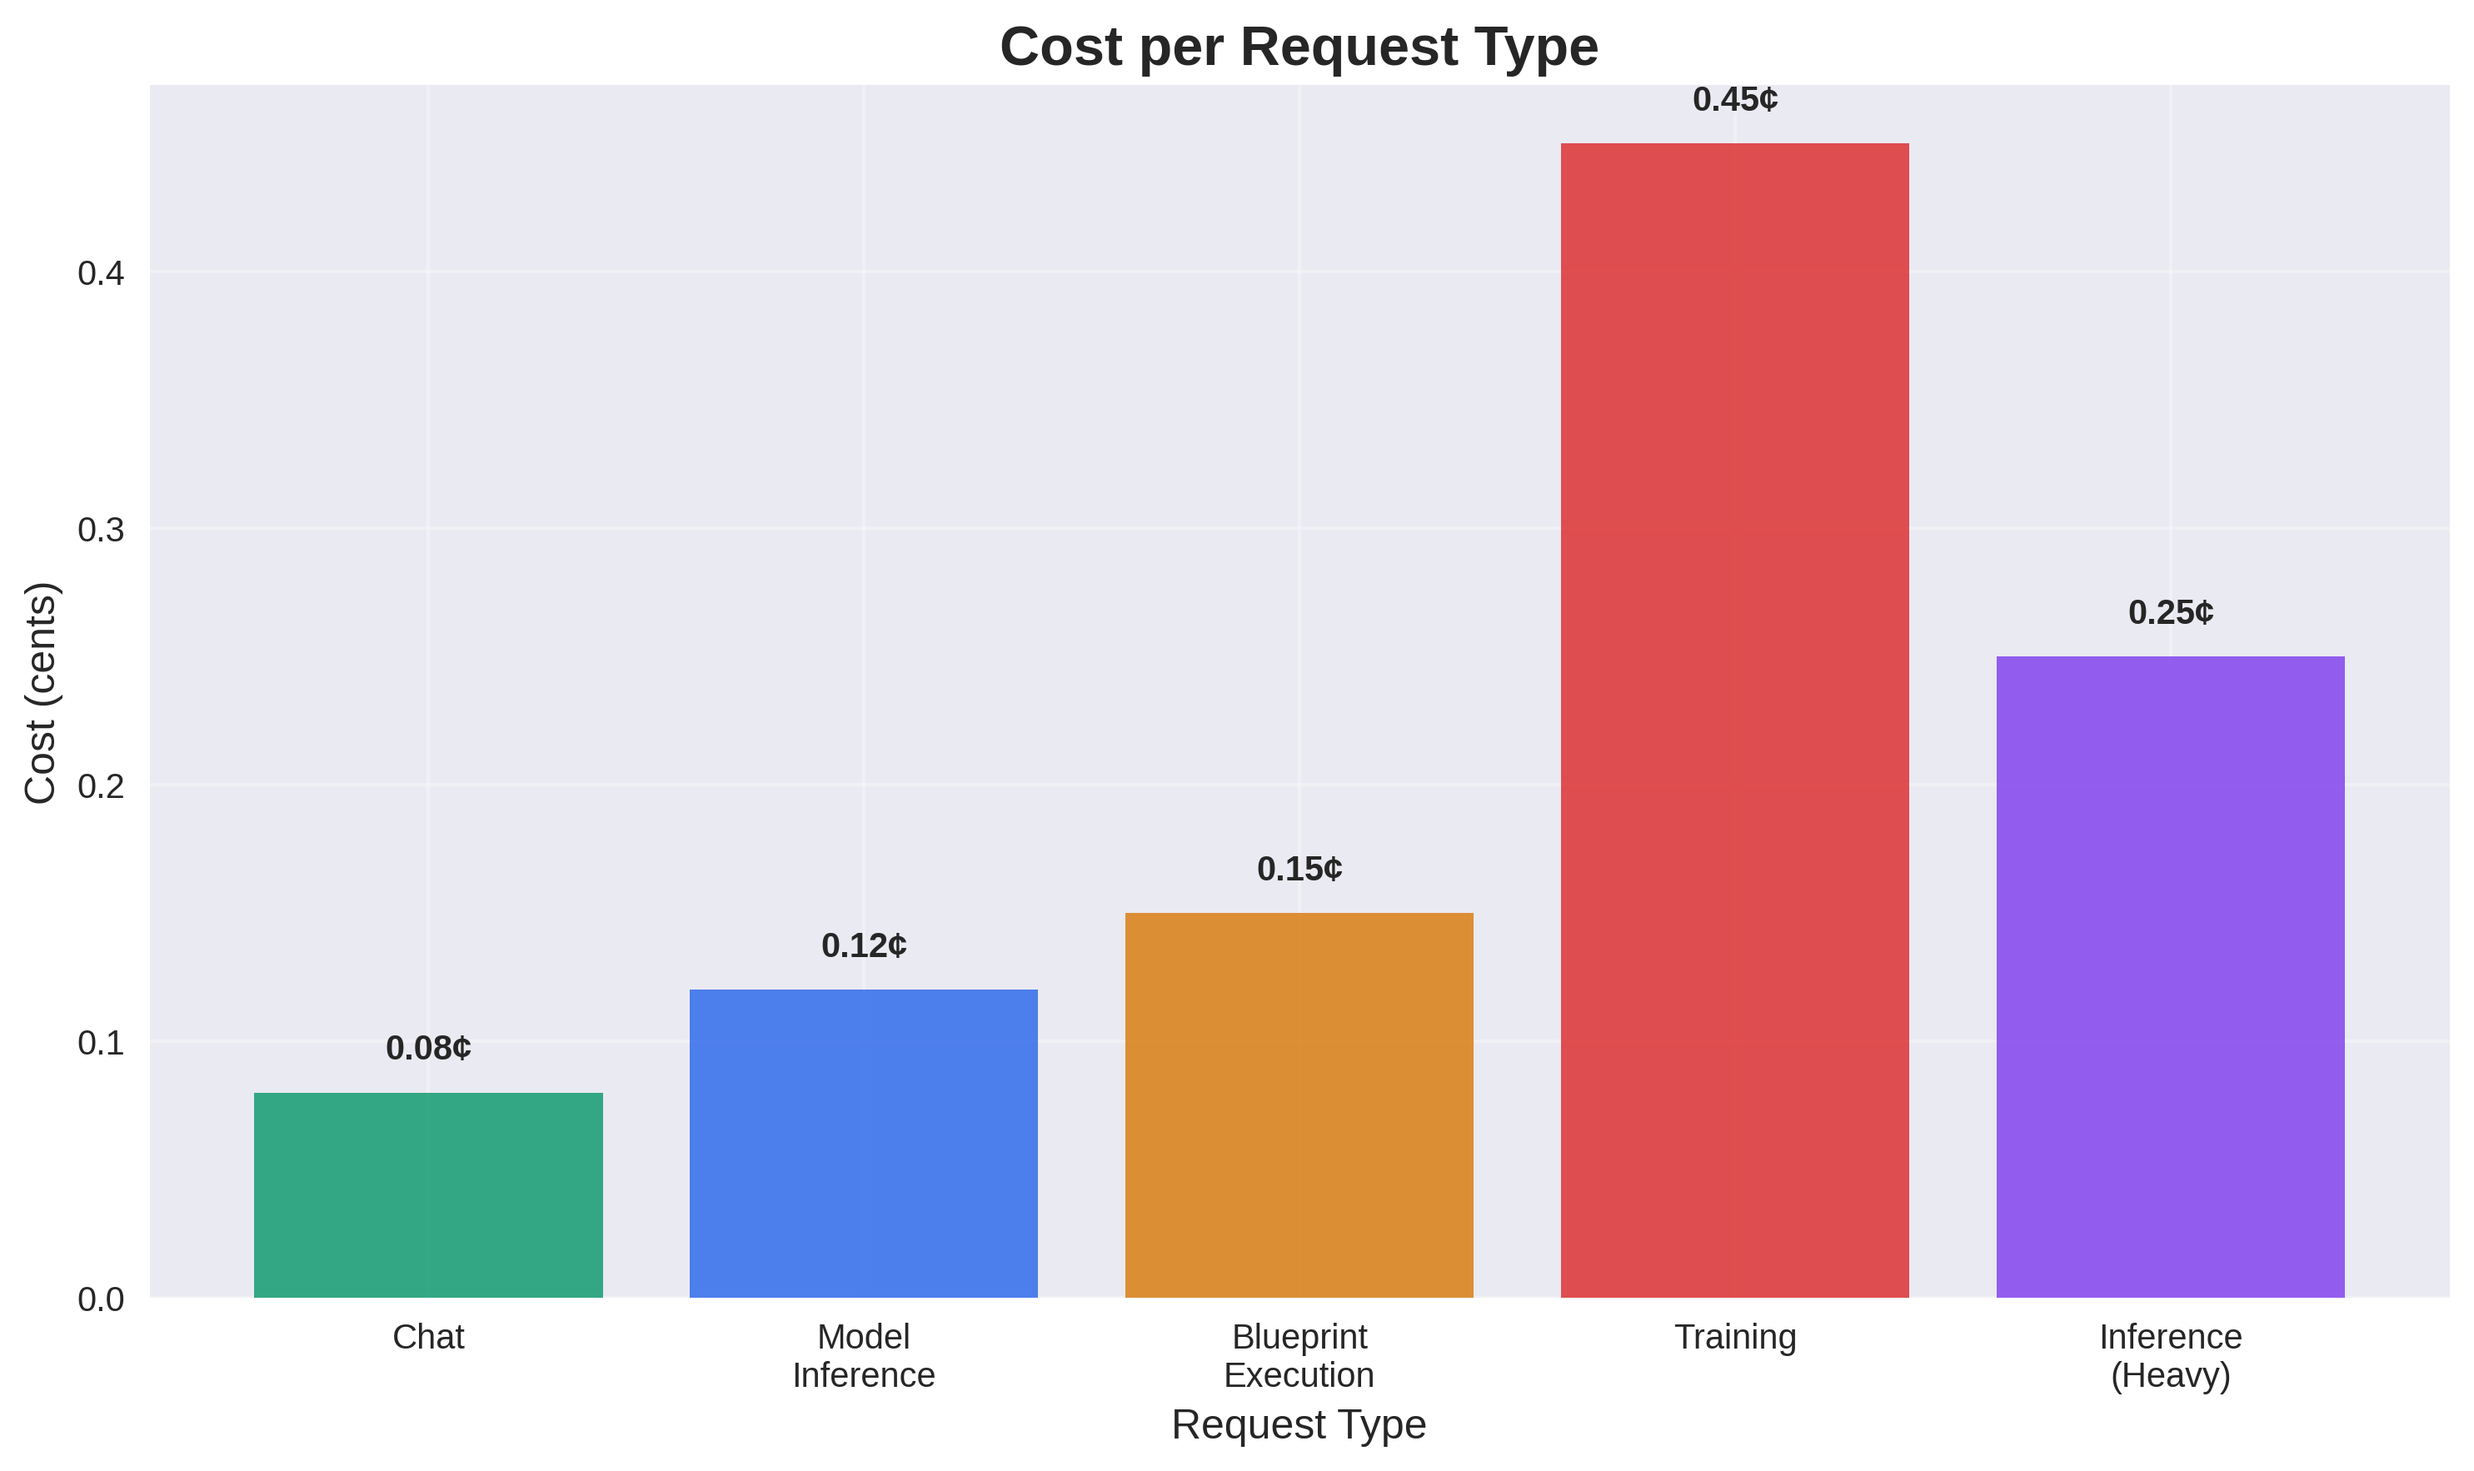
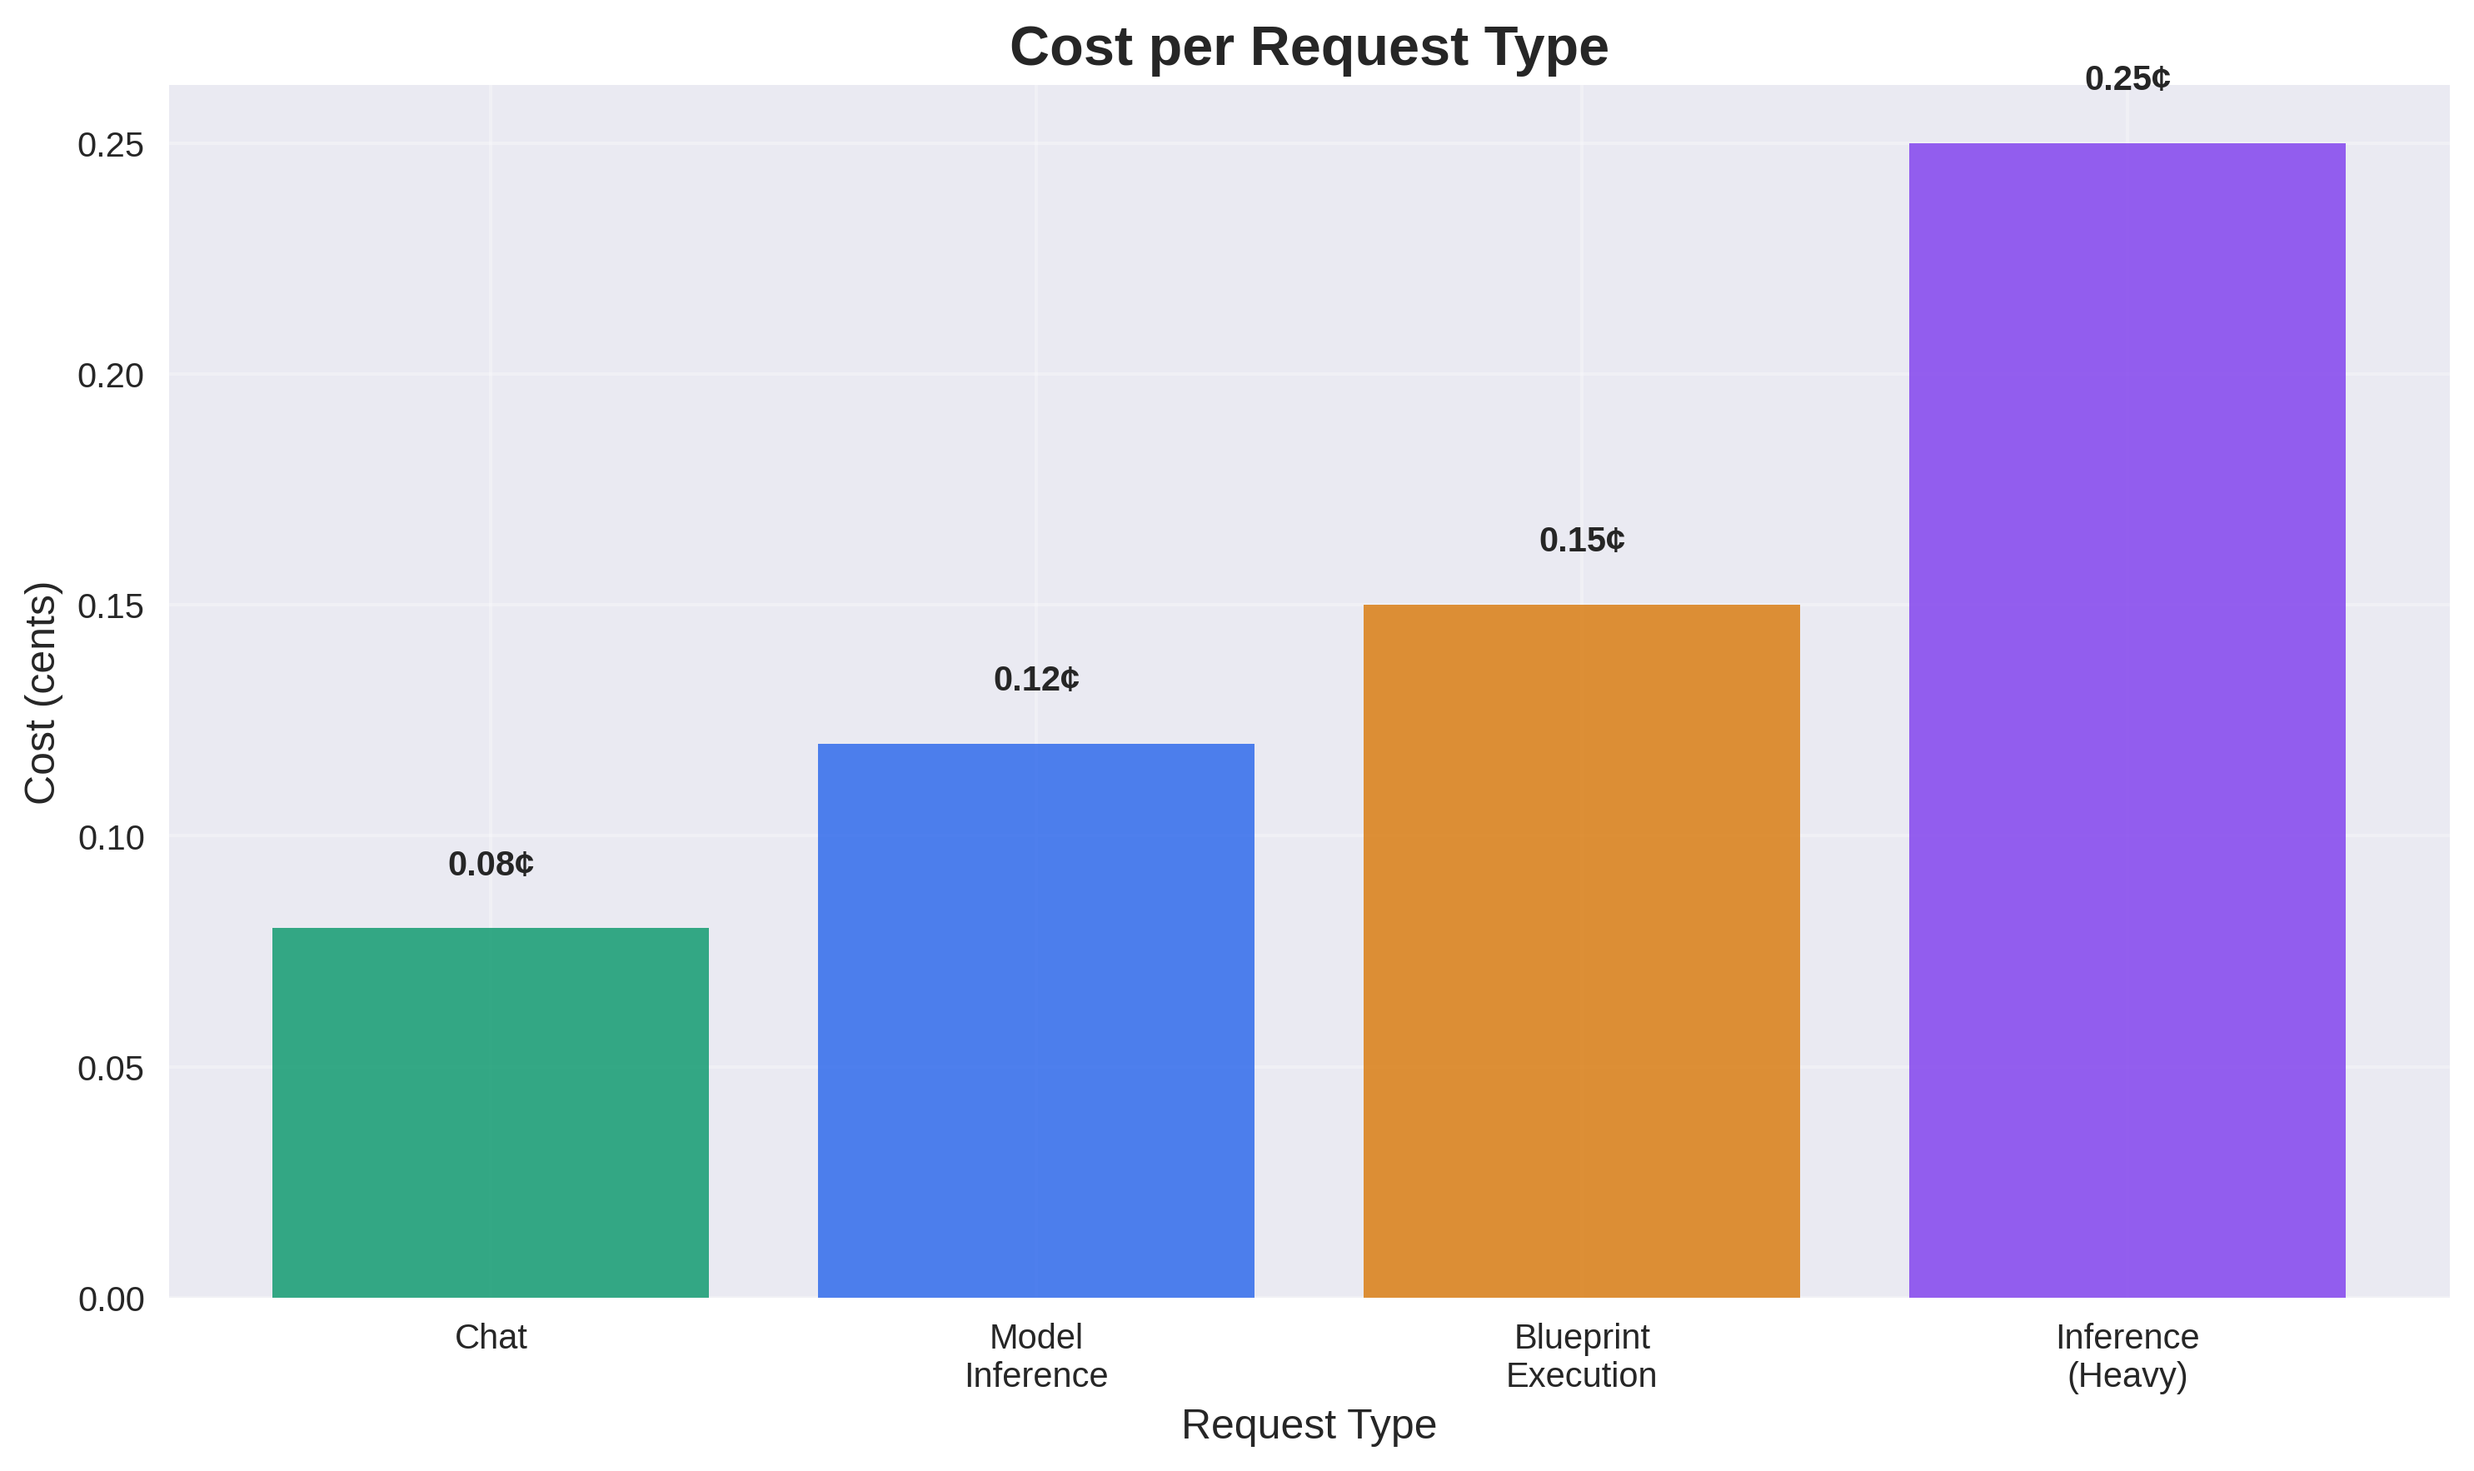
update sim page

diff --git a/generate_charts.py b/generate_charts.py
@@ -167,9 +167,9 @@ def create_growth_trend_chart():
 
 def create_cost_per_request_chart():
     """Create cost per request type chart"""
-    request_types = ['Chat', 'Model\nInference', 'Blueprint\nExecution', 'Training', 'Inference\n(Heavy)']
-    costs = [0.08, 0.12, 0.15, 0.45, 0.25]
-    colors = ['#059669', '#2563eb', '#d97706', '#dc2626', '#7c3aed']
+    request_types = ['Chat', 'Model\nInference', 'Blueprint\nExecution', 'Inference\n(Heavy)']
+    costs = [0.08, 0.12, 0.15, 0.25]
+    colors = ['#059669', '#2563eb', '#d97706', '#7c3aed']
     
     fig, ax = plt.subplots(figsize=(10, 6))
     

diff --git a/INFRASTRUCTURE_PERFORMANCE_SIMULATION.md b/INFRASTRUCTURE_PERFORMANCE_SIMULATION.md
@@ -48,7 +48,7 @@ These line charts show the growth in average daily RPS and total monthly cost ov
 
 ![Cost per Request](cost_per_request.png)
 
-This bar chart compares the cost per request for different workload types, including chat, inference, blueprint execution, and training.
+This bar chart compares the cost per request for different workload types, including chat, inference, and blueprint execution.
 
 ---
 

diff --git a/INFRASTRUCTURE_PERFORMANCE_DATA.md b/INFRASTRUCTURE_PERFORMANCE_DATA.md
@@ -81,7 +81,6 @@
 | Chat | 0.08 | 2,500,000 | 2,000 |
 | Model Inference | 0.12 | 1,800,000 | 2,160 |
 | Blueprint Execution | 0.15 | 1,200,000 | 1,800 |
-| Training | 0.45 | 200,000 | 900 |
 | Inference (Heavy) | 0.25 | 500,000 | 1,250 |
 
 ## Performance Metrics Summary
